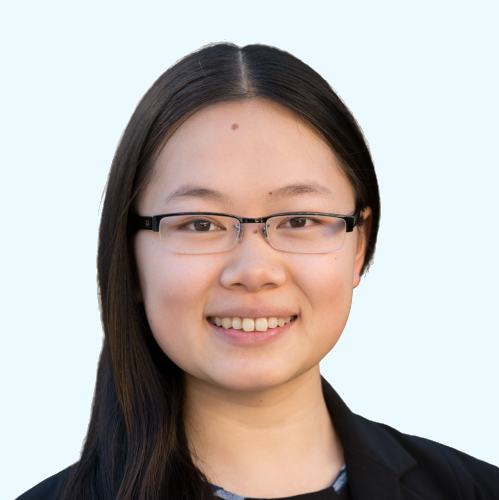
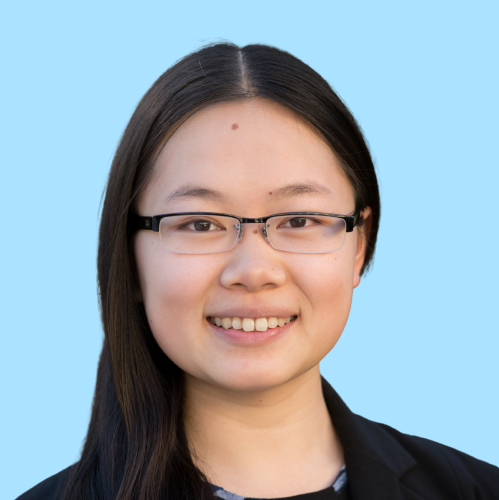
light blue bg

diff --git a/index.html b/index.html
@@ -16,7 +16,7 @@
 		<!-- Header -->
 			<section id="header">
 				<header>
-					<span class="image avatar"><img src="images/avatar-bluebg.png" alt="" /></span>
+					<span class="image avatar"><img src="images/avatar-lightbluebg.png" alt="" /></span>
 					<h1 id="logo"><a href="#">Marissa Vang</a></h1>
 					<p>Curiously motivated business student with technical savviness,
 					interested in contributing to positive social change.</p>
